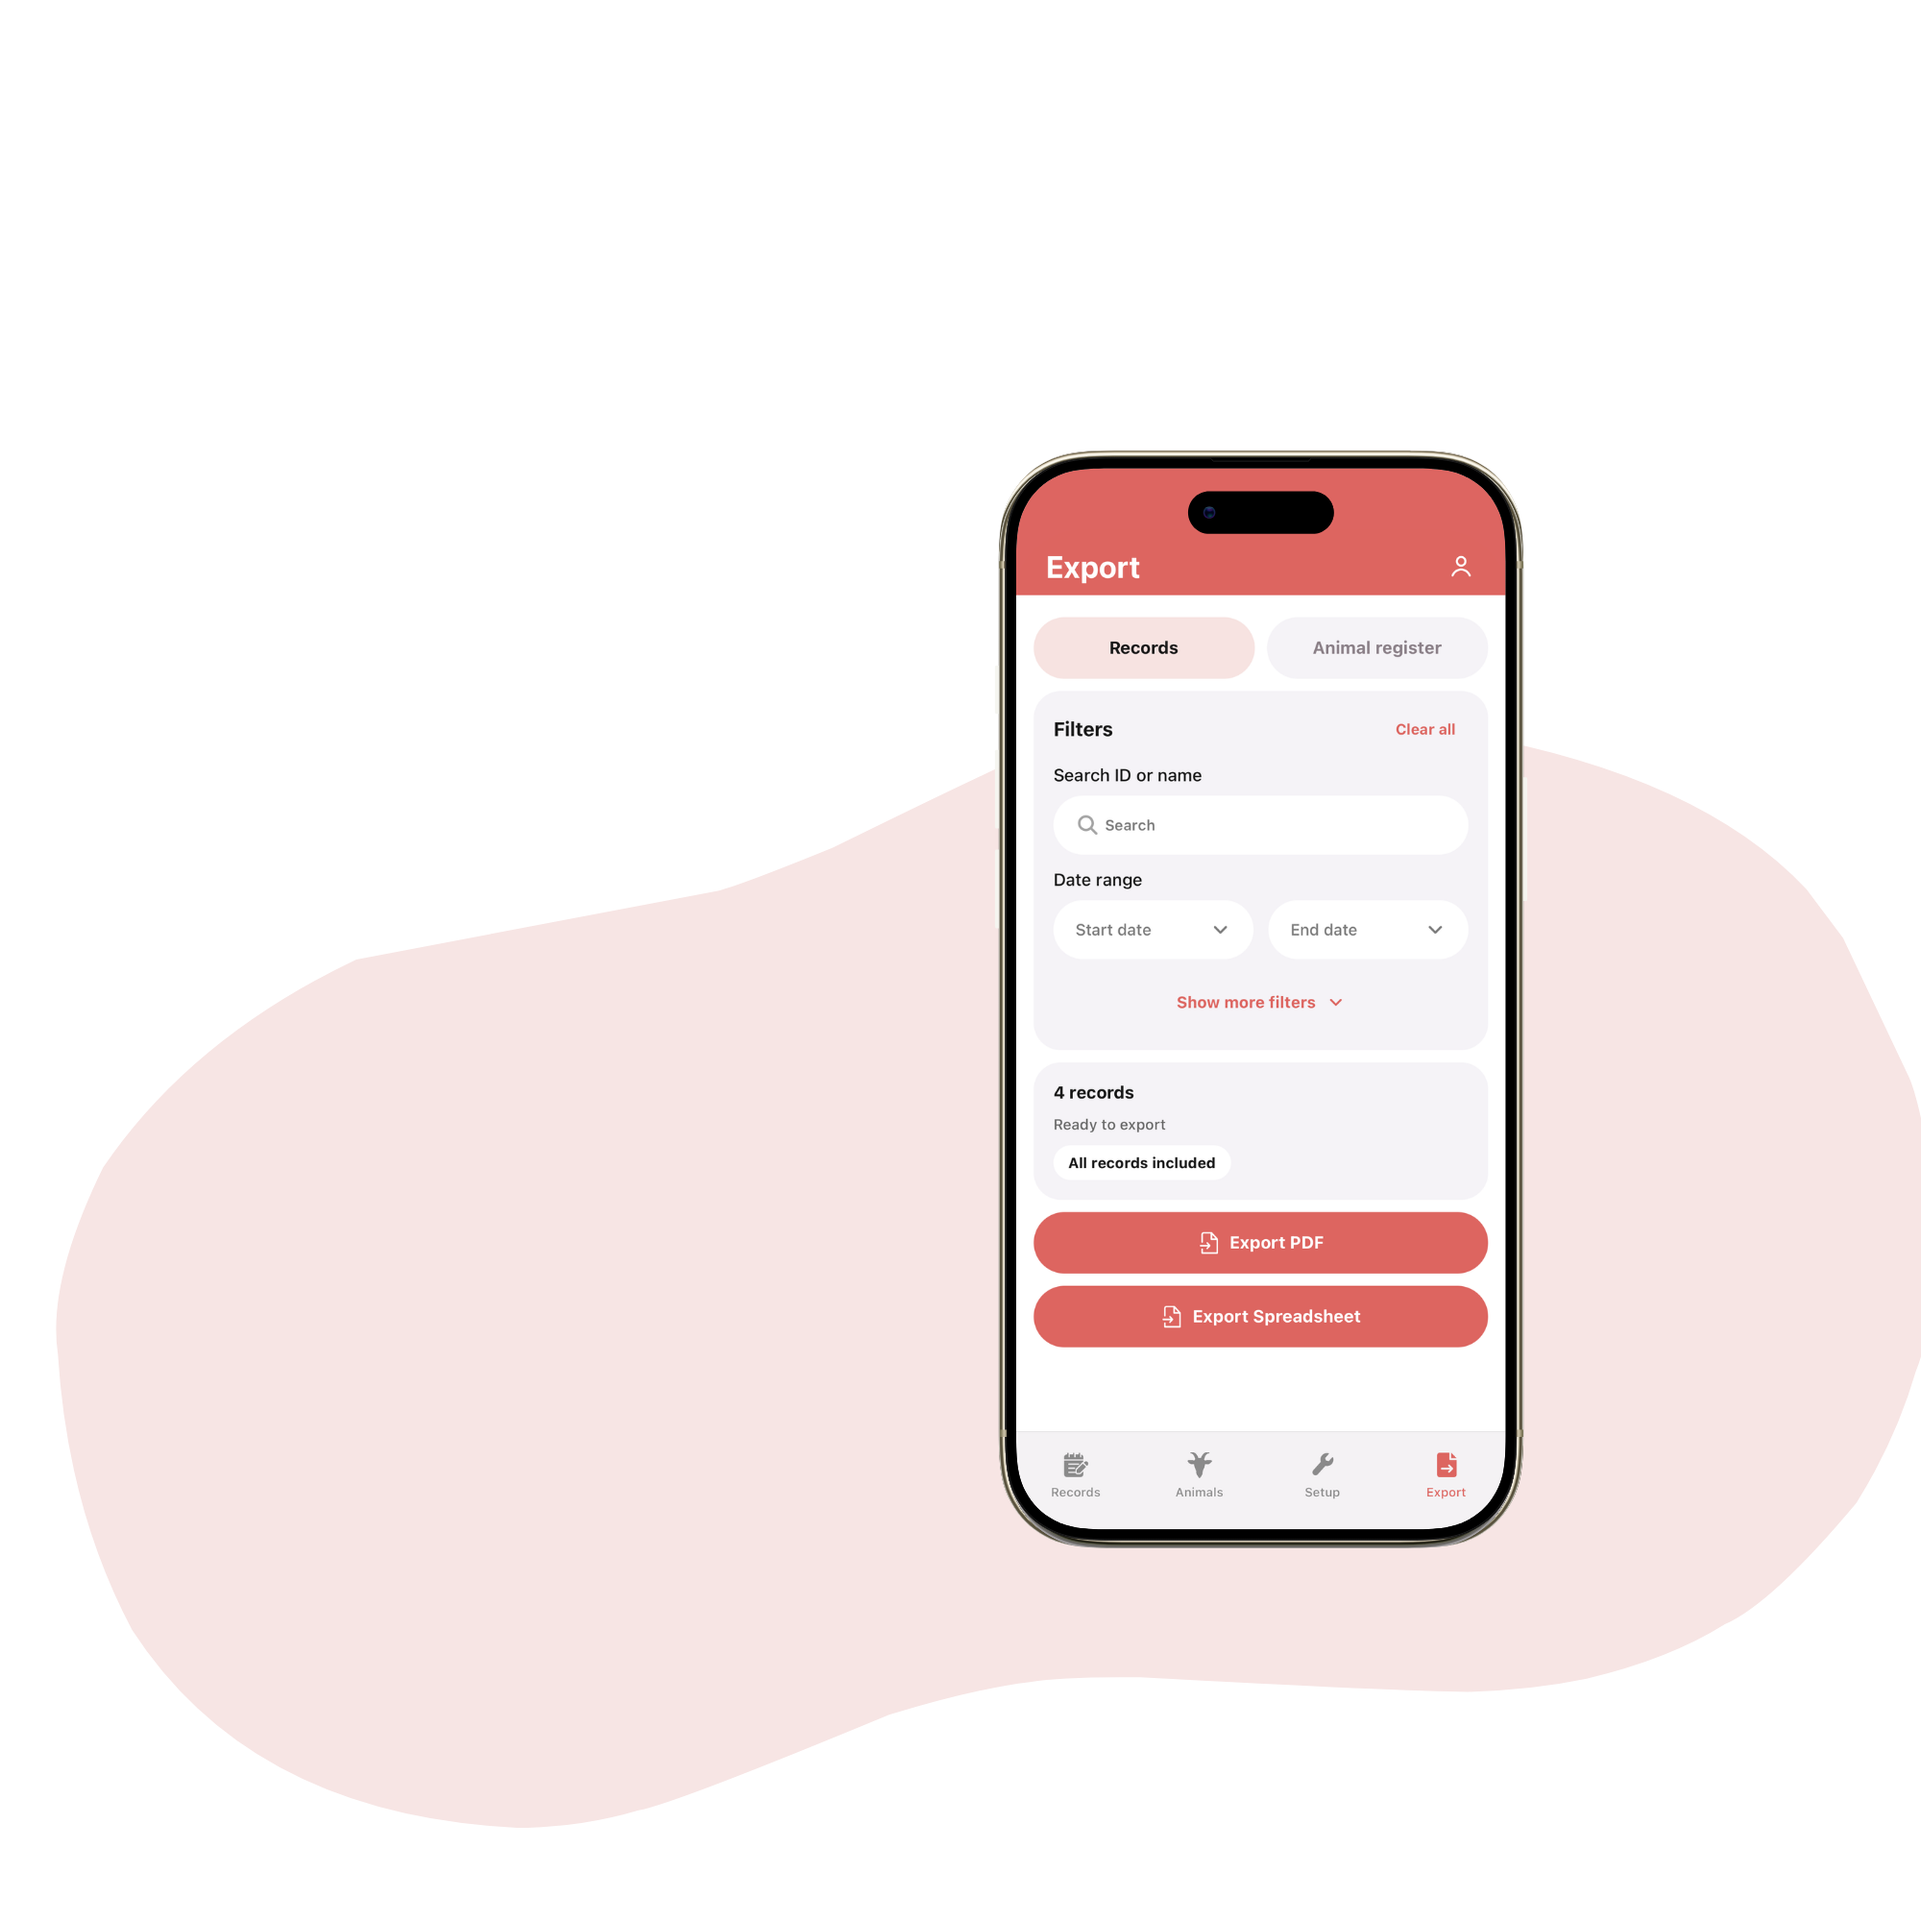
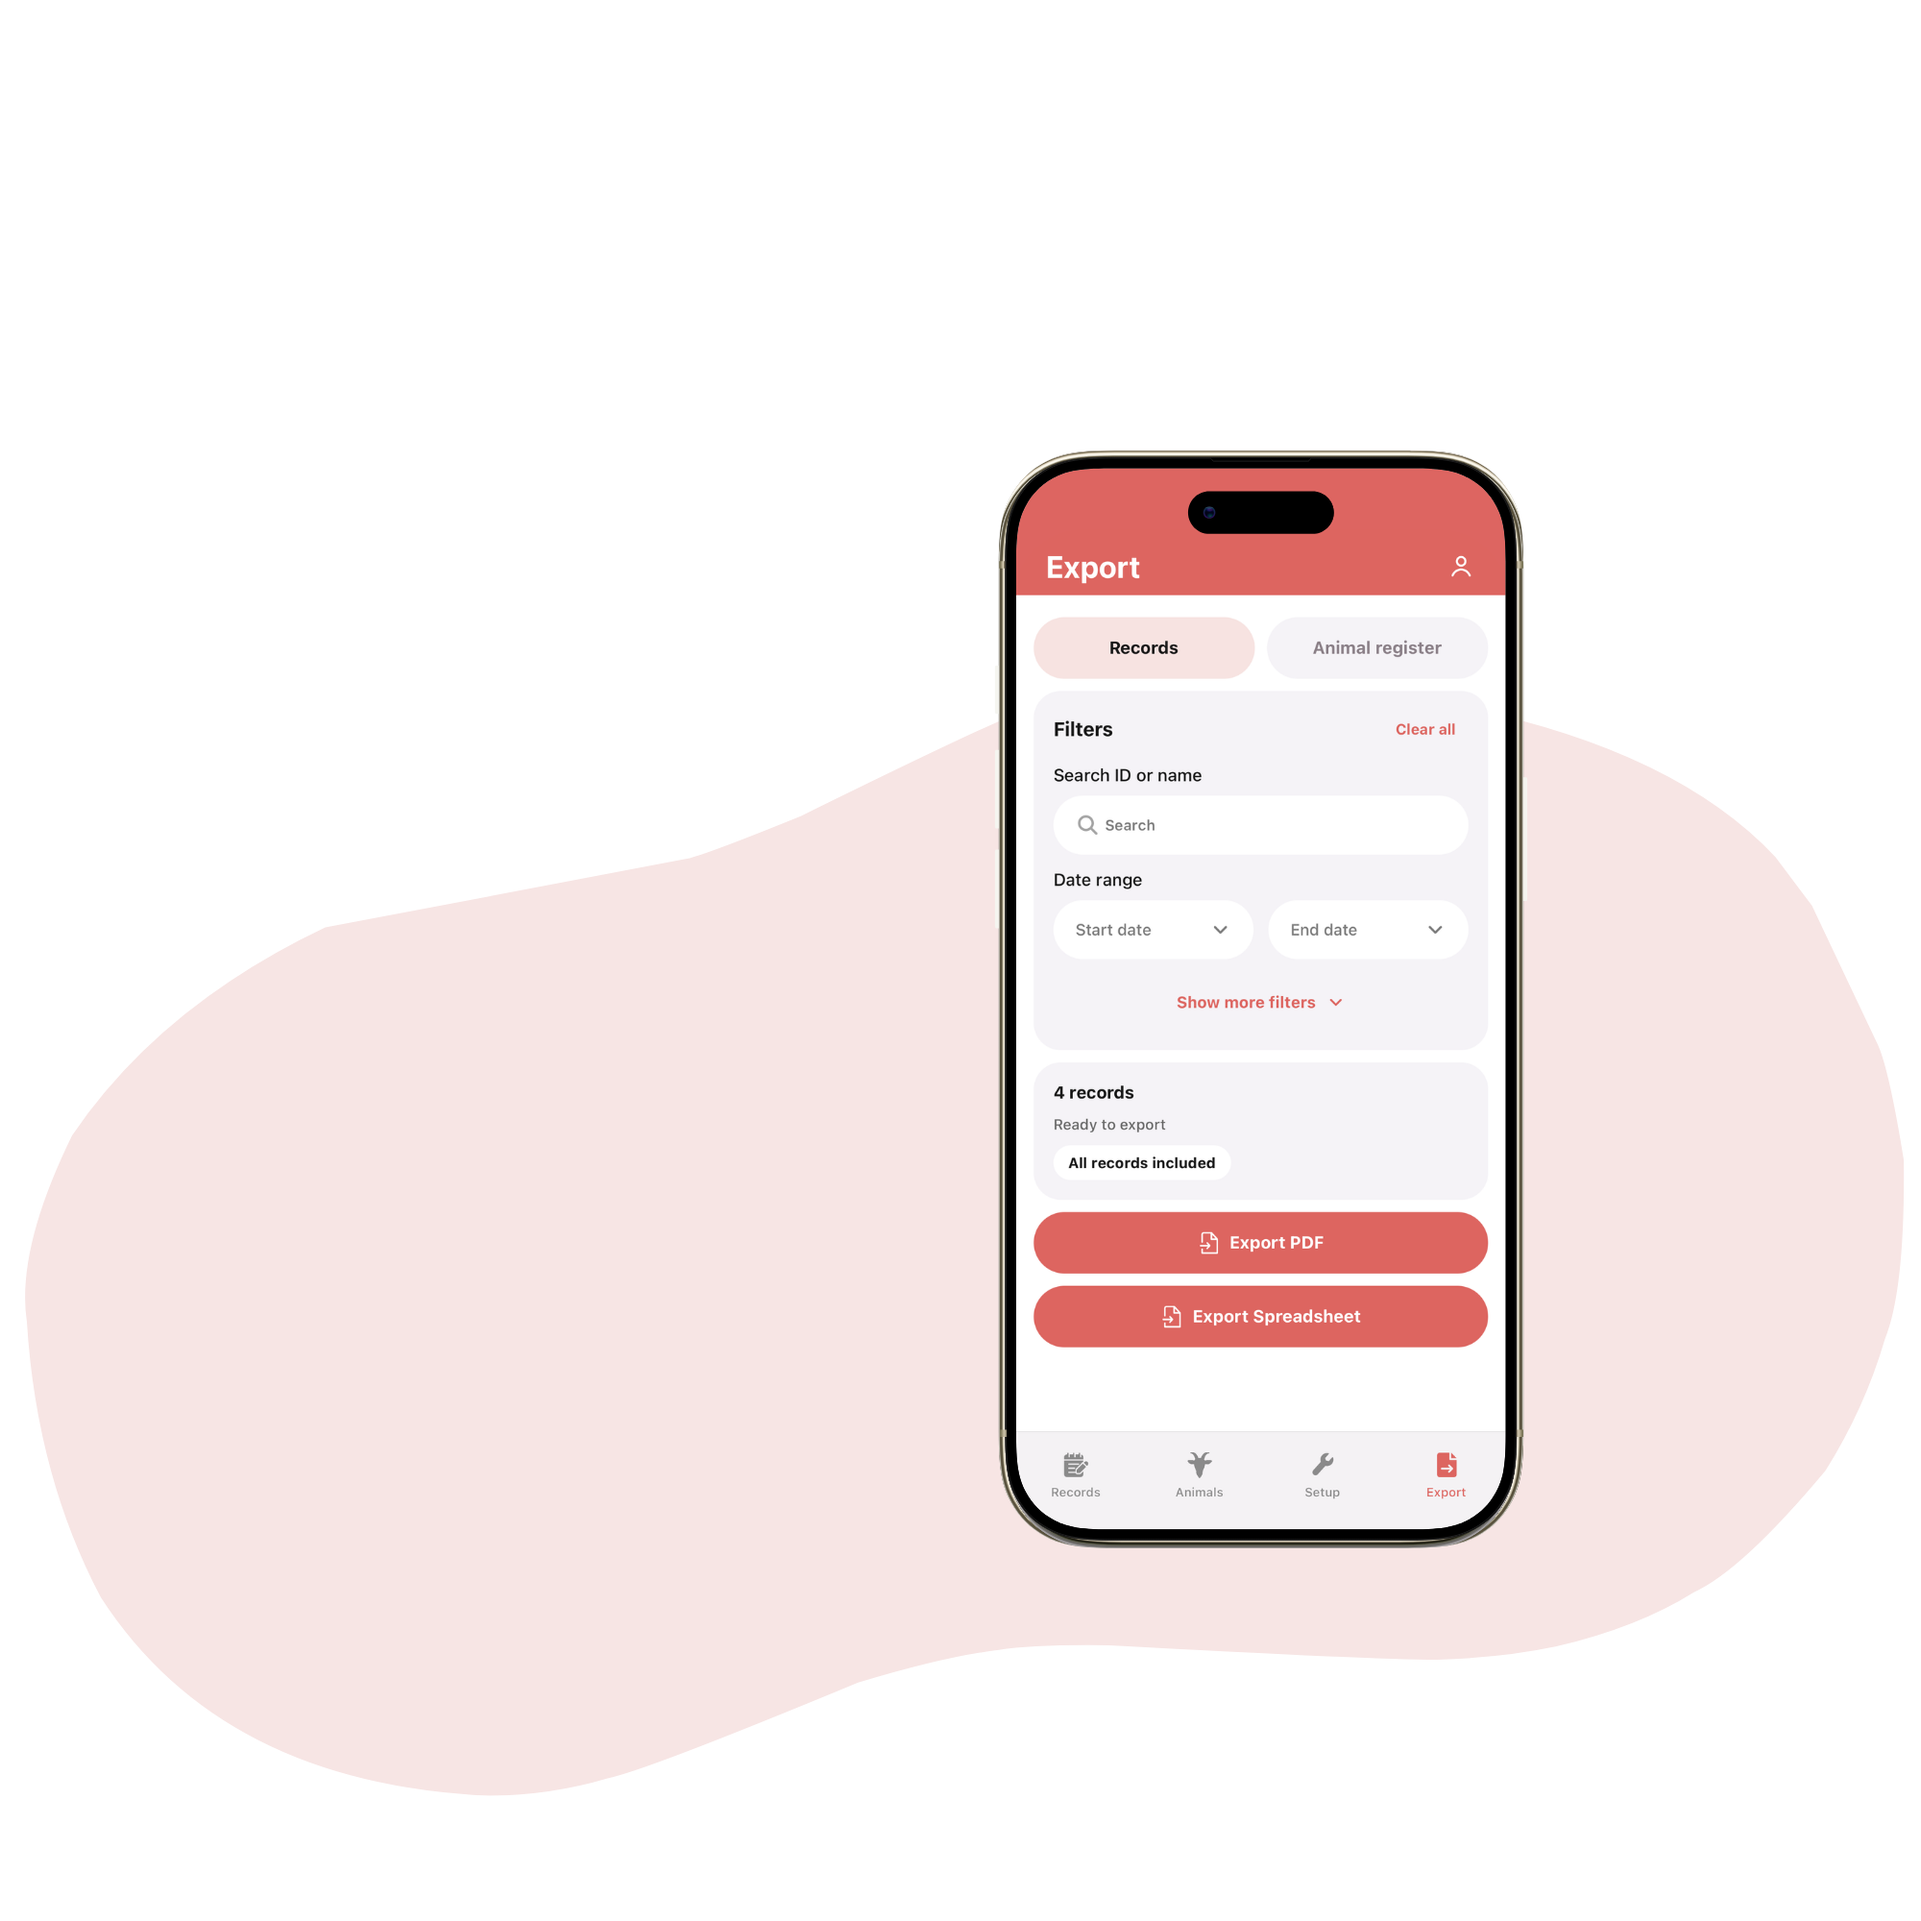
Update export graphic
Swap in the revised export artwork and bump its src to ?v=2.

diff --git a/docs/index.html b/docs/index.html
@@ -119,7 +119,7 @@
 
         <article class="feature-story feature-story-graphic">
           <figure class="feature-shot feature-story-screen">
-            <img class="feature-screen-image" src="./images/graphic-export.png" alt="Export screens in LivestockBook" loading="lazy" />
+            <img class="feature-screen-image" src="./images/graphic-export.png?v=2" alt="Export screens in LivestockBook" loading="lazy" />
           </figure>
           <div class="feature-story-copy">
             <p class="eyebrow">Export Your Data</p>
